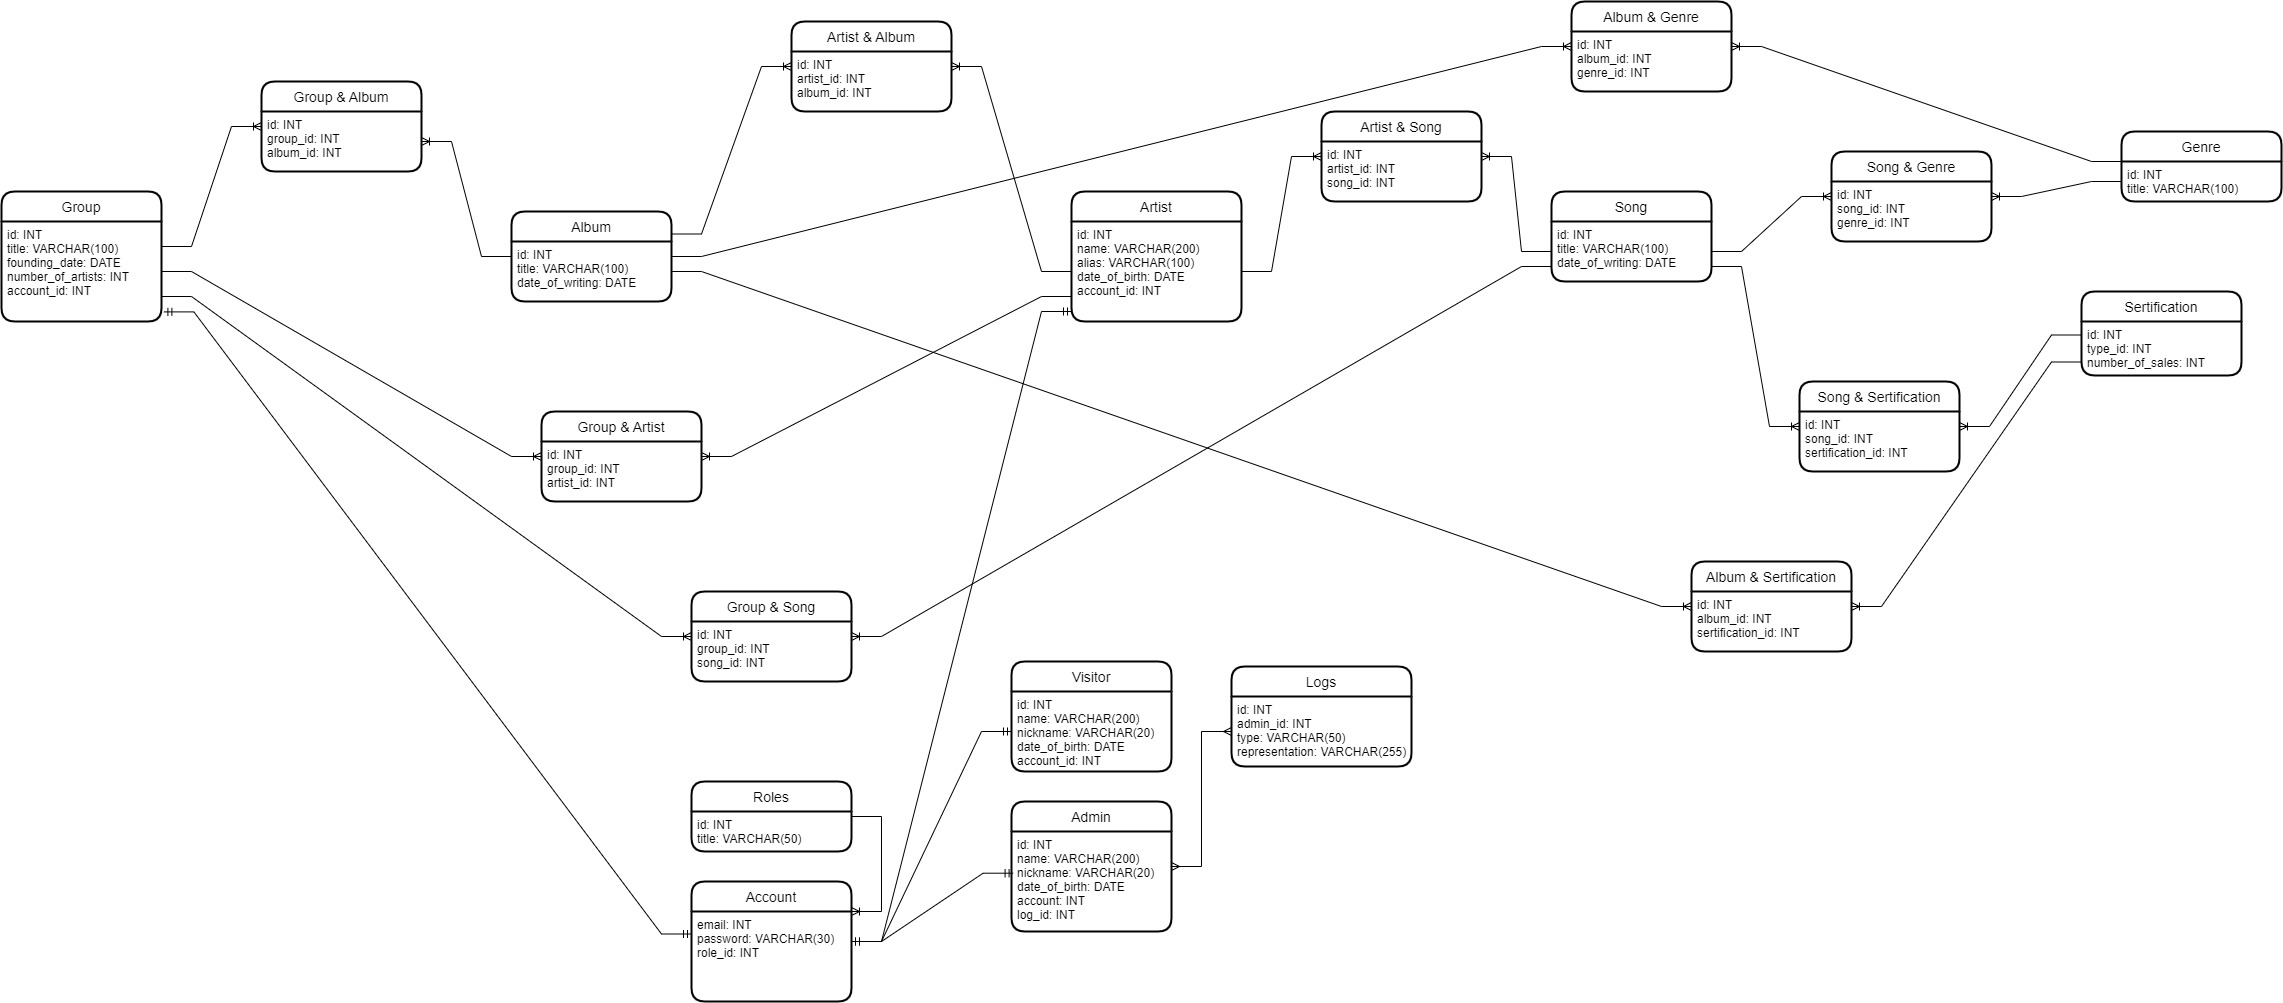
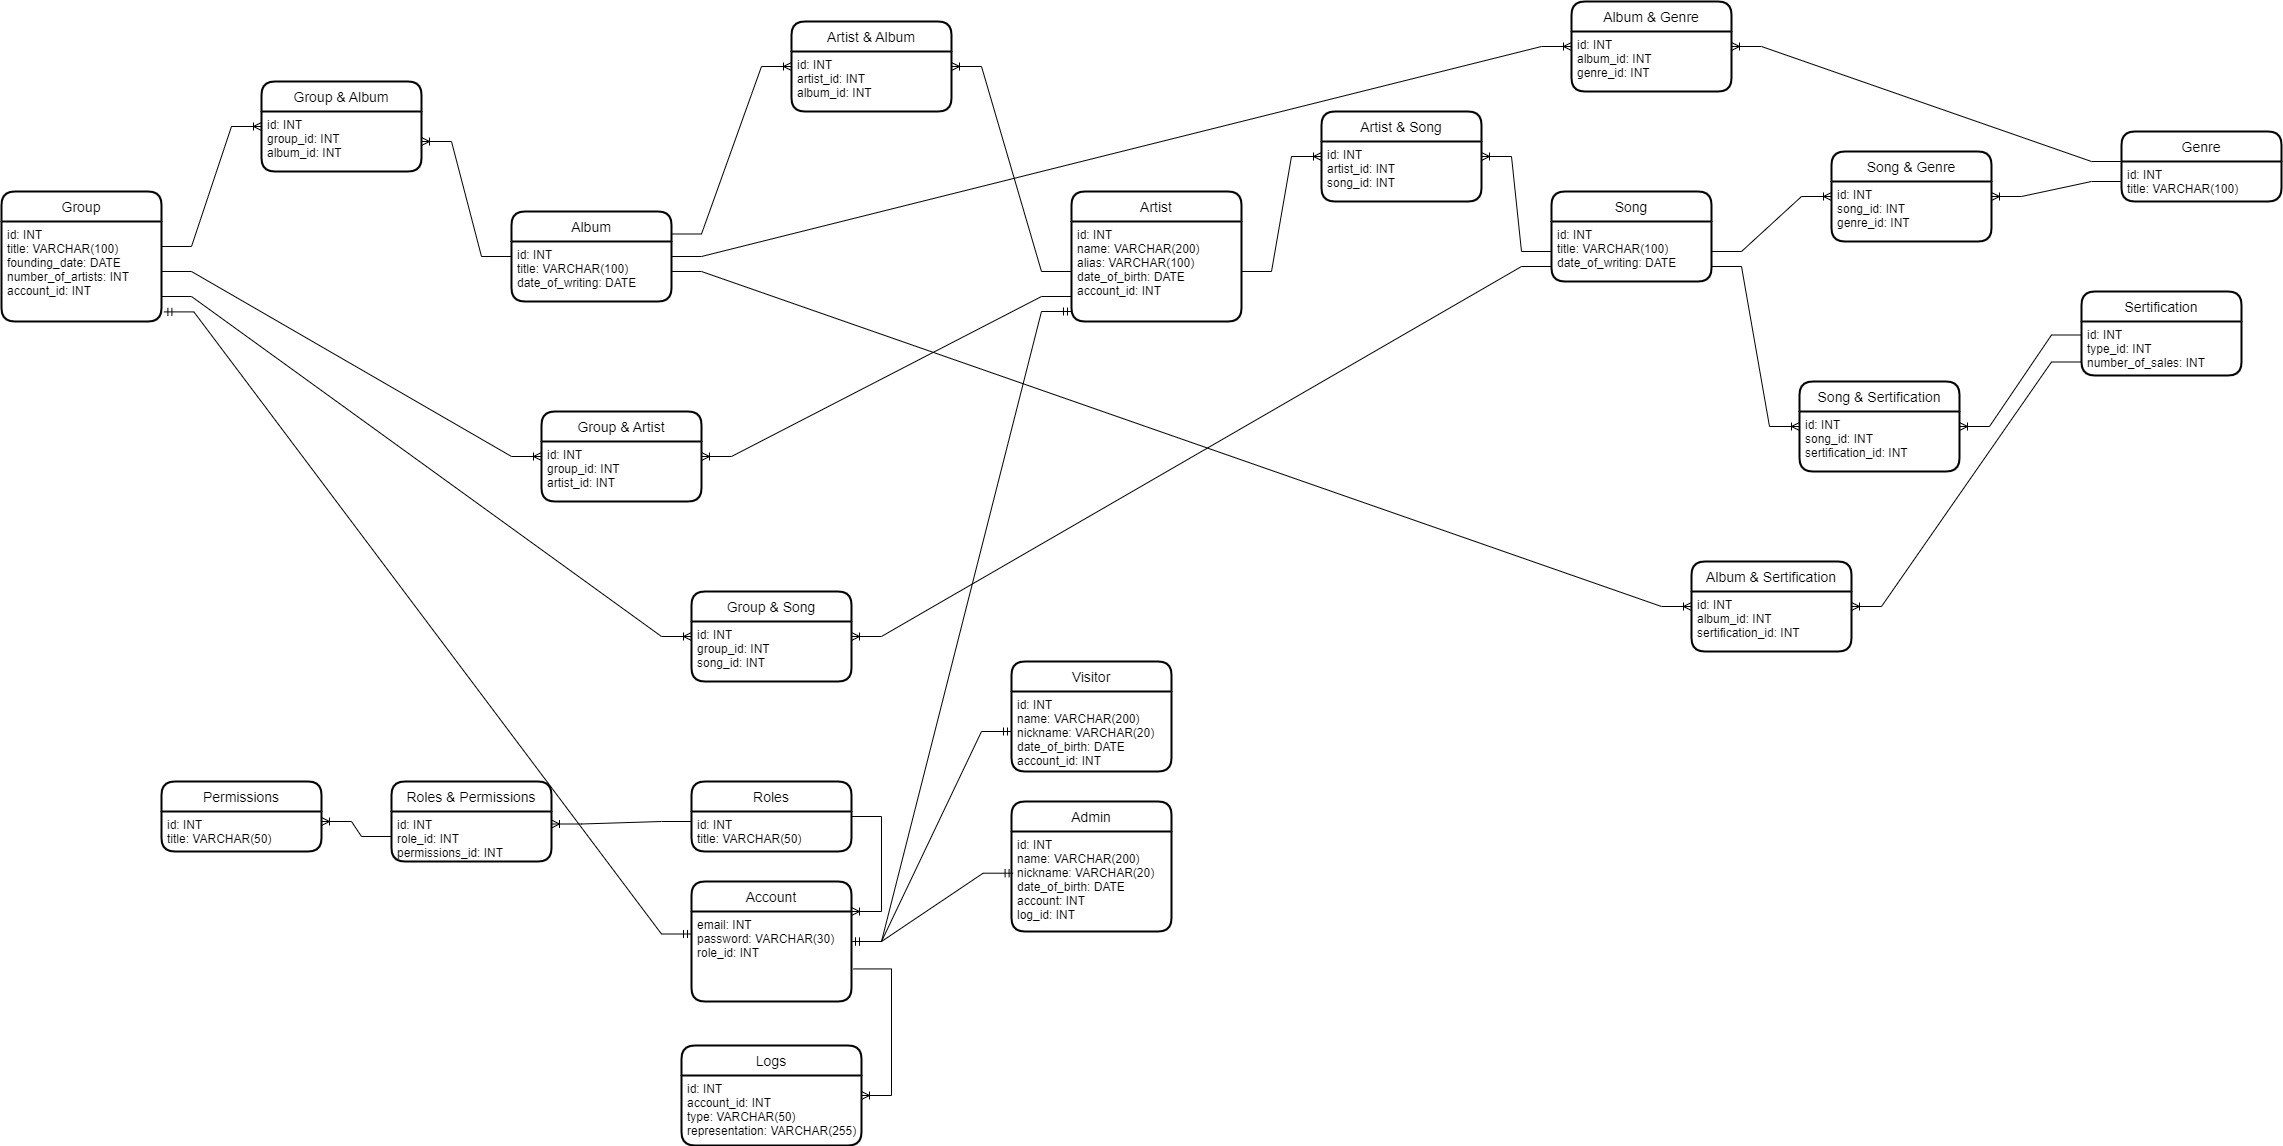
Remake roles

diff --git a/tables.md b/tables.md
@@ -75,18 +75,32 @@
 |number_of_sales|INT|NOT NULL|Число продаж для соответствия категории|
 
 ## Роли (Roles)
-|имя поля | тип | ограничения | описание |
+|Имя Поля | Тип | Ограничения | Описание |
 |:---:|:---:|:---:|:---:|
-| id | INT | PK, AUTO INCREMENT, NOT NULL, UNIQUE | первичный ключ |
-| title | VARCHAR(50) | NOT NULL | название роли |
+| id | INT | PK, AUTO INCREMENT, NOT NULL, UNIQUE | Первичный ключ |
+| title | VARCHAR(50) | NOT NULL | Название роли |
+
+## Права (Permissions)
+|Имя поля|Тип|Ограничения|Описание|
+|:------:|:-:|:---------:|:------:|
+|id|INT|PK, AUTO INCREMENT, NOT NULL, UNIQUE|Первичный ключ|
+|title|VARCHAR(50)|NOT NULL|Название роли|
+
+## Роли и Права (Roles & Permissions)
+|Имя поля|Тип|Ограничения|Описание|
+|:------:|:-:|:---------:|:------:|
+|id|INT|PK, AUTO INCREMENT, NOT NULL, UNIQUE|Первичный ключ|
+|role_id|INT|FK, NOT NULL|Внешний ключ на Роль|
+|permission_id|INT|FK, NOT NULL|Внешний ключ на Право|
 
 ## Логи (Logs)
 |имя поля | тип | ограничения | описание |
 |:---:|:---:|:---:|:---:|
 | id | INT | AUTO INCREMENT, NOT NULL,  UNIQUE | Первичный ключ |
-| admin_id | INT | FK, NOT NULL | внешний ключ на админа |
-| type | VARCHAR(50) | not null | тип лога(CREATE/UPDATE/DELETE) |
-| representation | VARCHAR(255) | not null | строковое представление изменённого кортежа |
+| account_id | INT | FK, NOT NULL | внешний ключ на Аккаунт |
+| type | VARCHAR(50) | NOT NULL | тип лога(CREATE/UPDATE/DELETE) |
+| representation | VARCHAR(255) | NOT NULL | строковое представление изменённого кортежа |
+|date_of_create|DATE|NOT NULL|Дата создания|
 
 ## Артист и Песня (Artist & Song)
 |имя поля | тип | ограничения | описание |
